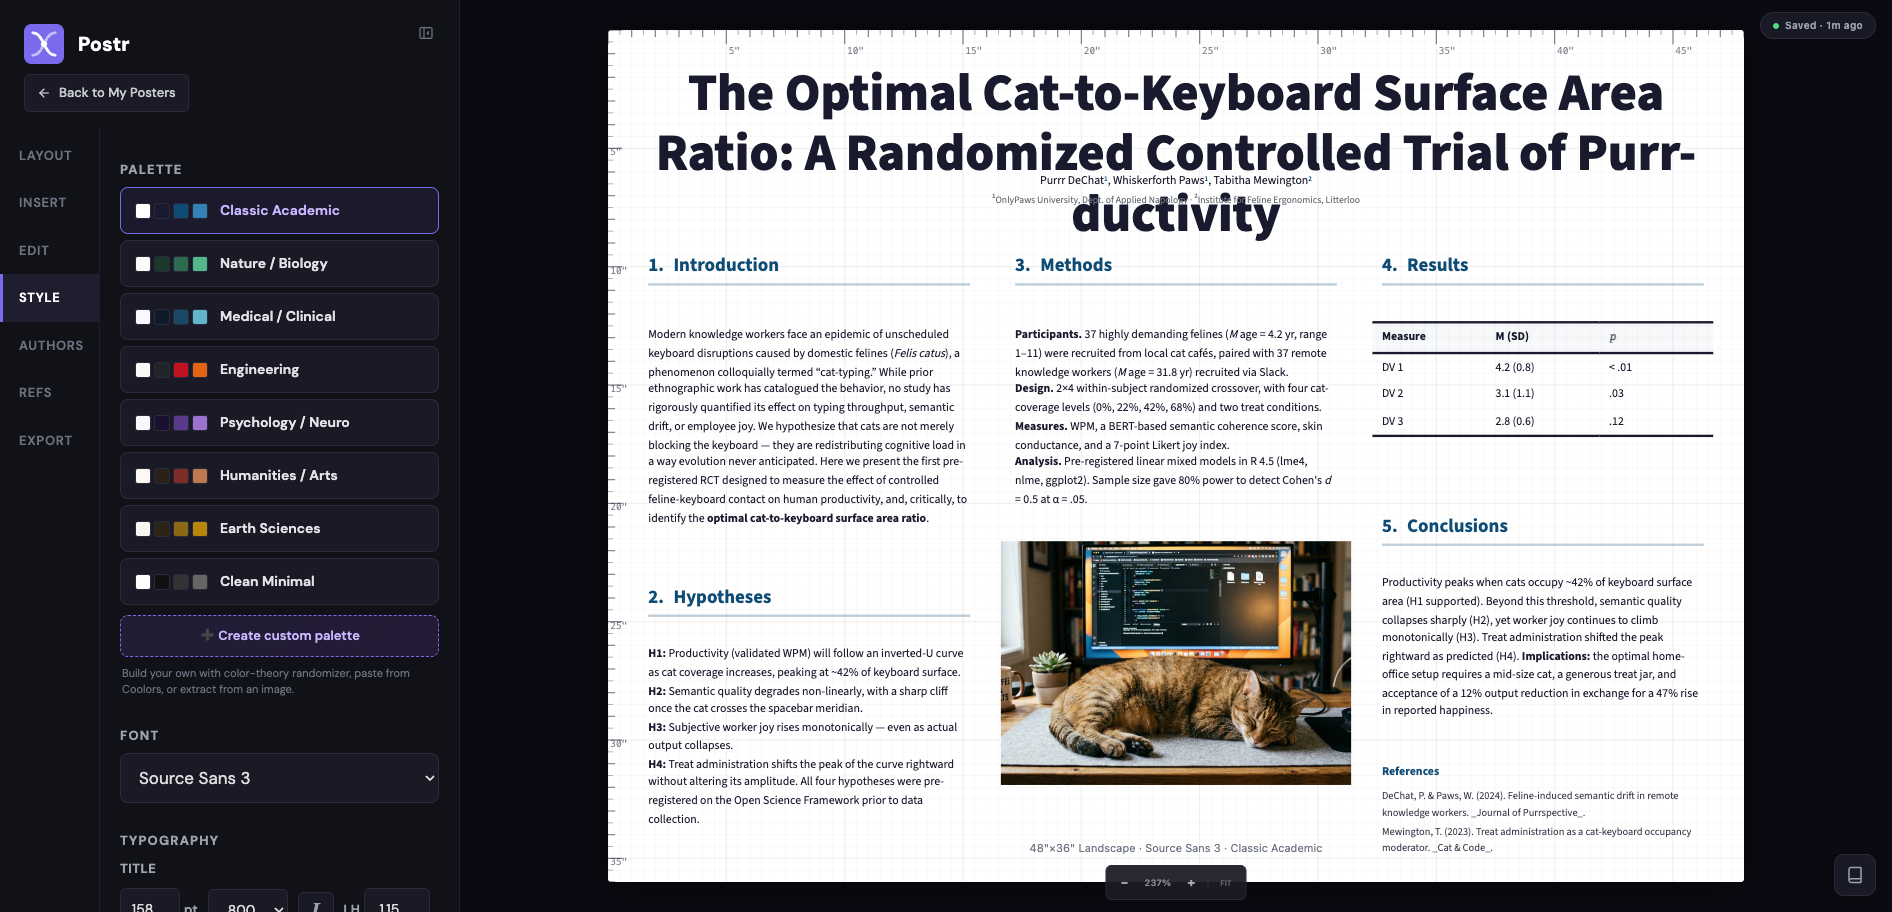
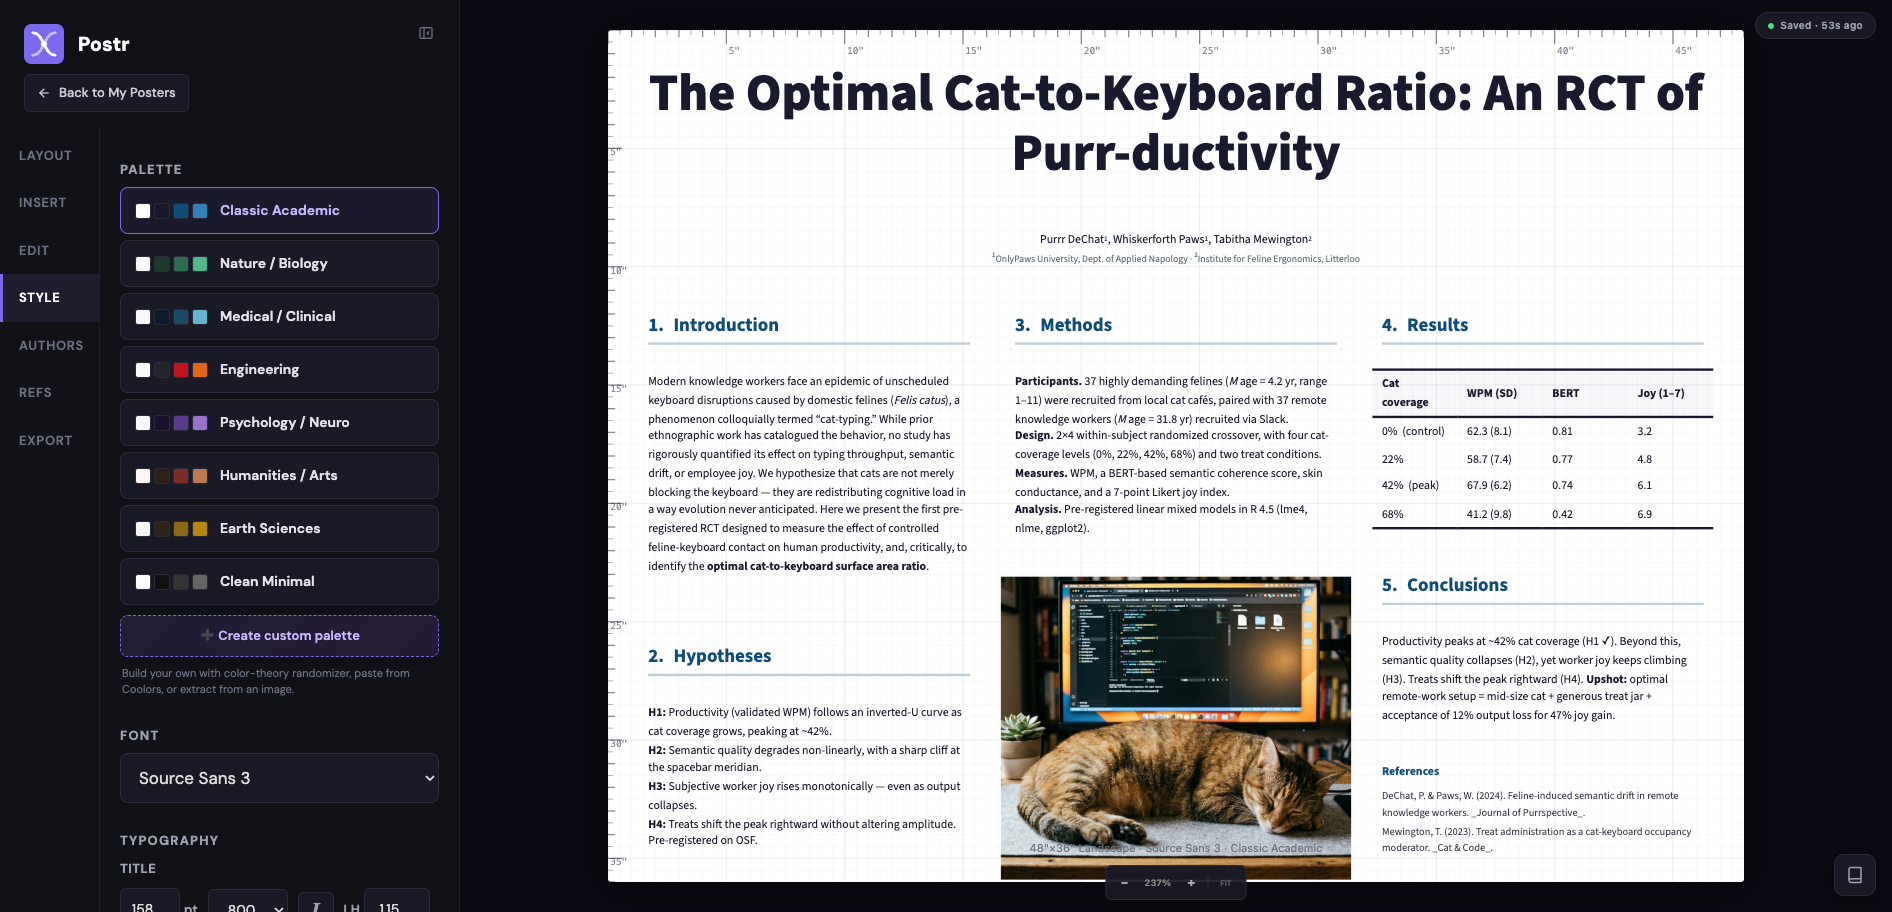
fix(editor): always-on code check, dynamic header layout, remove OCR stub
Three related editor fixes plus refreshed social-media screenshots:

1. Code Readability Check is always available in the Edit tab, not
   just when an image block is selected. When no image is selected
   it falls back to the standard 10" × 7" figure size; when an image
   is selected it uses that block's exact dimensions. The old
   "Click a block on the canvas..." placeholder is gone.

2. Image OCR Analysis section (with its disabled "Scan Image (coming
   soon)" button) is removed entirely. It was stub UI that shipped
   prematurely — hide it until the feature actually exists.

3. Auto-Layout no longer places authors at a hardcoded y=57 with a
   hardcoded HEADER_BOTTOM=81. Instead it stacks title → authors →
   body dynamically using the title's measured content height.
   Long multi-line titles (e.g., the cat-RCT screenshot title at
   h≈63) now push authors and the body down together, so authors
   never collides with the bottom of the title.

The regenerated social_media_content/* screenshots show:
- Title and authors clearly separated (fixes the overlap the prior
  dense-content set had)
- A realistic bogus RCT table (Cat coverage / WPM / BERT / Joy)
  instead of the DV 1/2/3 placeholder
- No OCR "coming soon" stub in the sidebar
- Screenshot 3 now shows the Code Readability Check active in the
  sidebar with the image block selected (previously split across
  two UI states)

Changed region(s): [[0.343, 0.0614, 0.9043, 0.9825], [0.343, 0.7061, 0.4989, 0.9211], [0.9355, 0.0, 0.9667, 0.0307]]

diff --git a/apps/web/src/poster/autoLayout.ts b/apps/web/src/poster/autoLayout.ts
@@ -19,7 +19,6 @@ import { M, GAP } from './constants';
 import { snap } from './snap';
 
 const COLUMN_CLUSTER_THRESHOLD = 30;
-const HEADER_BOTTOM = 81; // y where the body should start (header_height + small pad)
 
 interface Cluster {
   center: number;
@@ -41,11 +40,26 @@ export function autoLayout(
     return [...blocks];
   }
 
-  // Step 1: pin headers
+  // Step 1: pin headers using the title's measured content height
+  // (the caller's probe may have grown it to accommodate a multi-line
+  // title). Authors sits directly under the title — not at a hardcoded
+  // y — so long titles no longer collide with the authors line.
+  const titleBlk = headers.find((b) => b.type === 'title');
+  const titleH = titleBlk ? titleBlk.h : 45;
+  const HEADER_GAP = 5; // breathing room between title and authors
+  const authorsY = snap(M + titleH + HEADER_GAP);
   const pinnedHeaders = headers.map((b) => {
     if (b.type === 'title') return { ...b, x: M, y: M, w: canvasWidth - M * 2 };
-    return { ...b, x: M, y: snap(57), w: canvasWidth - M * 2 };
+    return { ...b, x: M, y: authorsY, w: canvasWidth - M * 2 };
   });
+
+  // Body starts below the full header stack (title + gap + authors
+  // + small pad). We compute this dynamically instead of the old
+  // hardcoded `HEADER_BOTTOM = 81` so long titles push everything
+  // else down together.
+  const authorsBlk = headers.find((b) => b.type === 'authors');
+  const authorsH = authorsBlk ? authorsBlk.h : 20;
+  const headerBottom = authorsY + authorsH + HEADER_GAP;
 
   // Step 2: cluster body block x positions
   const uniqueXs = [...new Set(body.map((b) => b.x))].sort((a, b) => a - b);
@@ -79,7 +93,7 @@ export function autoLayout(
   }
 
   // Step 4: within each column, sort by y and restack
-  const bodyTop = HEADER_BOTTOM + M;
+  const bodyTop = headerBottom + M;
   const repositionedBody: Block[] = [];
   buckets.forEach((column, columnIndex) => {
     const sorted = [...column].sort((a, b) => a.y - b.y);

diff --git a/apps/web/src/poster/ReadabilityPanel.tsx b/apps/web/src/poster/ReadabilityPanel.tsx
@@ -243,31 +243,6 @@ export function ReadabilityPanel({ selectedBlock }: Props) {
           )}
         </>
       )}
-
-      {/* OCR section — only when image selected */}
-      {isImage && (
-        <div style={{ borderTop: '1px solid #45475a', paddingTop: 12, marginTop: 4 }}>
-          <div style={labelStyle}>Image OCR Analysis</div>
-          <p style={{ color: '#6b7280', fontSize: 13, lineHeight: 1.5, margin: 0 }}>
-            Scan the uploaded figure for text and check readability directly from the image — no code needed.
-          </p>
-          <button
-            disabled
-            style={{
-              ...copyBtnStyle,
-              marginTop: 8,
-              opacity: 0.4,
-              cursor: 'not-allowed',
-              fontFamily: 'system-ui',
-            }}
-          >
-            Scan Image (coming soon)
-          </button>
-          <div style={{ fontSize: 13, color: '#555', marginTop: 4 }}>
-            Phase 2 — local Ollama or Claude Vision
-          </div>
-        </div>
-      )}
     </div>
   );
 }

diff --git a/apps/web/src/poster/Sidebar.tsx b/apps/web/src/poster/Sidebar.tsx
@@ -1792,15 +1792,11 @@ function EditTab(props: {
           onUpdateBlock={props.onUpdateBlock}
           onUpdateStyle={updateStyle}
         />
-      ) : sb && sb.type === 'image' ? (
-        // Image blocks: show the readability analyzer inline instead of
-        // shunting users off to a dedicated "figure" tab.
-        <ReadabilityPanel selectedBlock={sb} />
       ) : (
-        <div style={{ fontSize: 14, color: '#555', padding: '16px 0', lineHeight: 1.5 }}>
-          Click a block on the canvas to edit it here, or switch to the{' '}
-          <span style={{ color: '#c8b6ff' }}>Insert</span> tab to add a new one.
-        </div>
+        // Code readability analyzer — always available. When an image
+        // block is selected it uses that block's exact dimensions;
+        // otherwise it falls back to a standard 10" × 7" figure size.
+        <ReadabilityPanel selectedBlock={sb && sb.type === 'image' ? sb : null} />
       )}
     </>
   );
